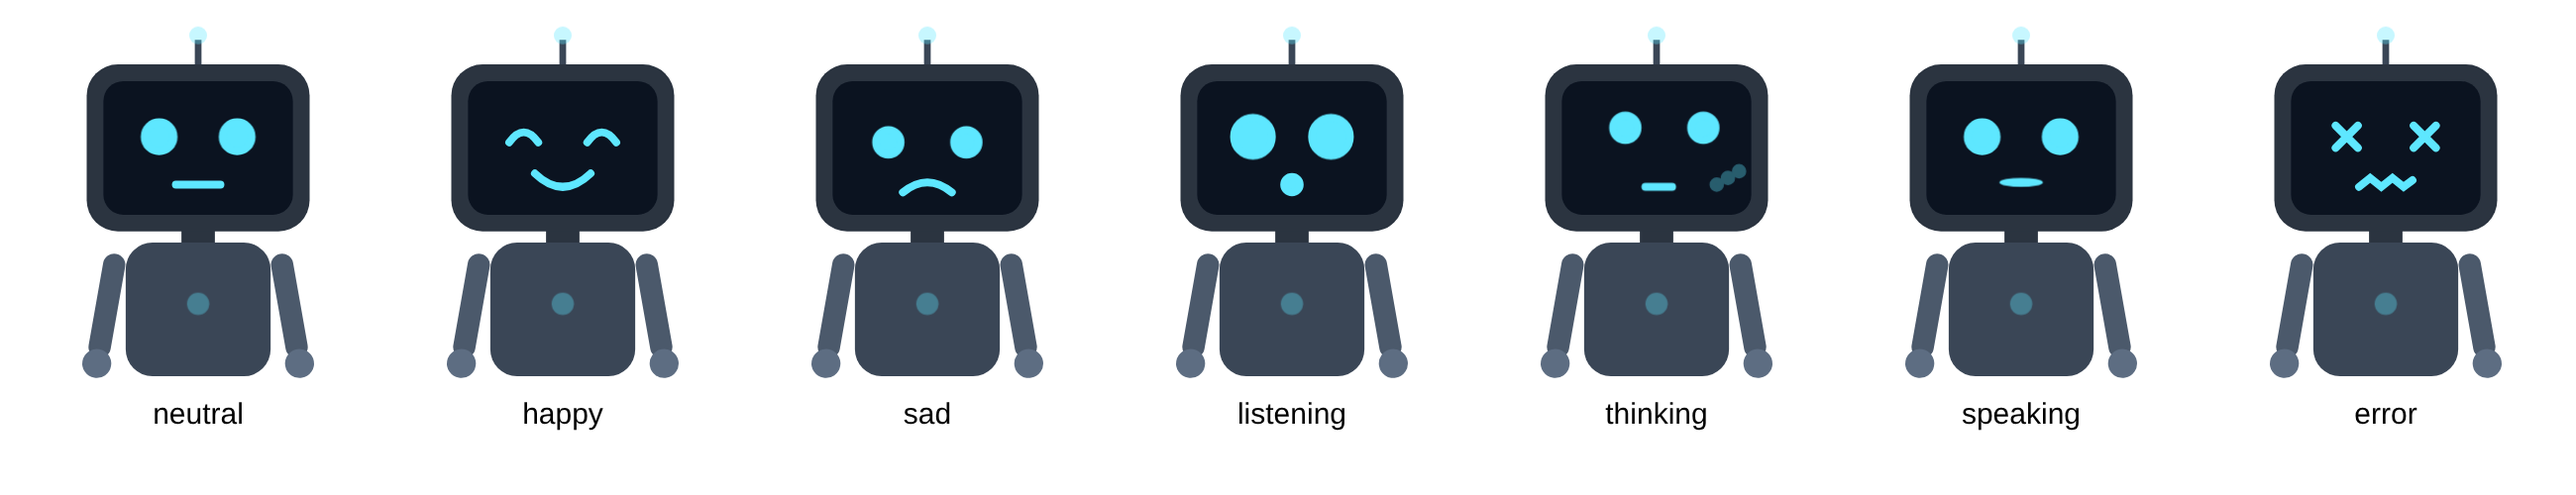
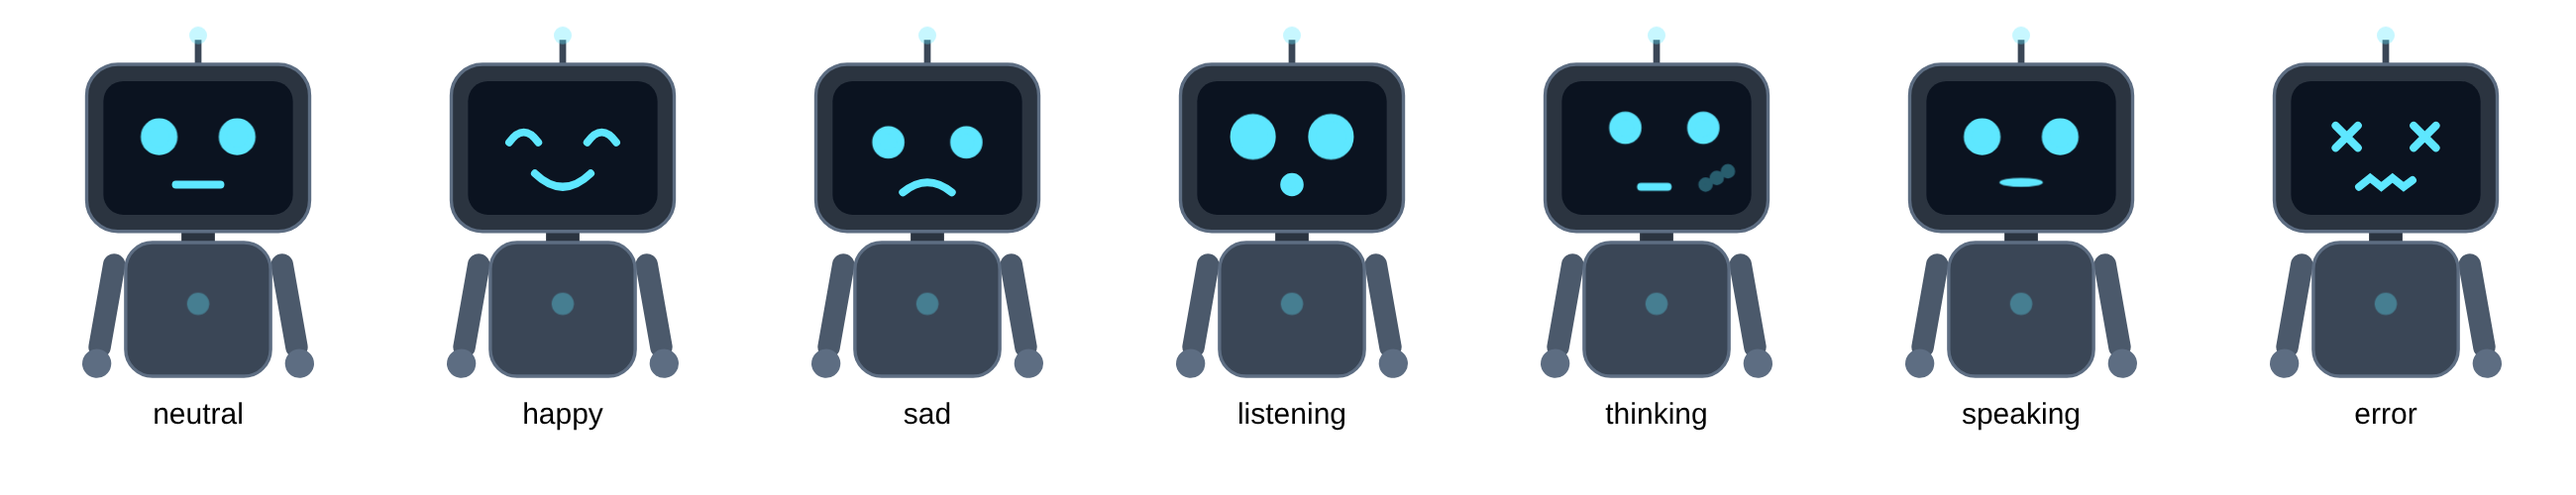
Give Ash its own look instead of Gradio's defaults
- Hide Gradio's footer (API, settings and "Built with Gradio" links)
- Use a cyan theme that matches Ash's face instead of Gradio orange
- Add a robot favicon
- Outline Ash's head and body so it stands out in dark mode
- Put the live demo link and a fresh screenshot in the README

diff --git a/ash/avatar.py b/ash/avatar.py
@@ -79,9 +79,9 @@ def render(face="neutral", poses=()):
   <g class="right"><rect x="225" y="190" width="20" height="95" rx="10" fill="#4b596b"/>
     <circle cx="235" cy="290" r="13" fill="#5d6d82"/></g>
   <rect x="145" y="165" width="30" height="22" fill="#2b3440"/>
-  <rect x="95" y="180" width="130" height="120" rx="24" fill="#3a4656"/>
+  <rect x="95" y="180" width="130" height="120" rx="24" fill="#3a4656" stroke="#5d6d82" stroke-width="3"/>
   <circle class="light" cx="160" cy="235" r="10" fill="{GLOW}"/>
-  <rect x="60" y="20" width="200" height="150" rx="28" fill="#2b3440"/>
+  <rect x="60" y="20" width="200" height="150" rx="28" fill="#2b3440" stroke="#5d6d82" stroke-width="3"/>
   <rect x="75" y="35" width="170" height="120" rx="18" fill="#0b1320"/>
   <g class="face">{FACES.get(face, FACES["neutral"])}</g>
 </svg>

diff --git a/app.py b/app.py
@@ -104,8 +104,13 @@ with gr.Blocks(title="Ash") as demo:
     box.submit(respond, [box, history, user_key], [history, chat, face, speaker, box])
 
 CSS = ".ash-avatar svg { width: 100%; max-height: 420px; }"
+THEME = gr.themes.Soft(primary_hue="cyan", neutral_hue="slate")  # match Ash's glowing face
+ICON = Path(__file__).parent / "docs" / "icon.png"
 
 if __name__ == "__main__":
     # Hosts like Render tell the app which port to use through $PORT.
     port = os.getenv("PORT")
-    demo.launch(css=CSS, server_name="0.0.0.0" if port else None, server_port=int(port) if port else None)
+    demo.launch(
+        css=CSS, theme=THEME, favicon_path=ICON, footer_links=[],
+        server_name="0.0.0.0" if port else None, server_port=int(port) if port else None,
+    )

diff --git a/README.md b/README.md
@@ -2,7 +2,7 @@
 
 A little robot you can talk to. Type or speak, and Ash answers using AI (open models running on Groq), then reacts with its face and arms: it waves when you say hi, points when you ask a question, and cheers when you share good news.
 
-**Try it:** _live demo link goes here once deployed_ (the first load can take a minute while the free server wakes up)
+**Try it live: [ash-11nq.onrender.com](https://ash-11nq.onrender.com)** (the first visit can take up to a minute while the free server wakes up)
 
 ![Ash waving back after being greeted](docs/screenshot.png)
 
